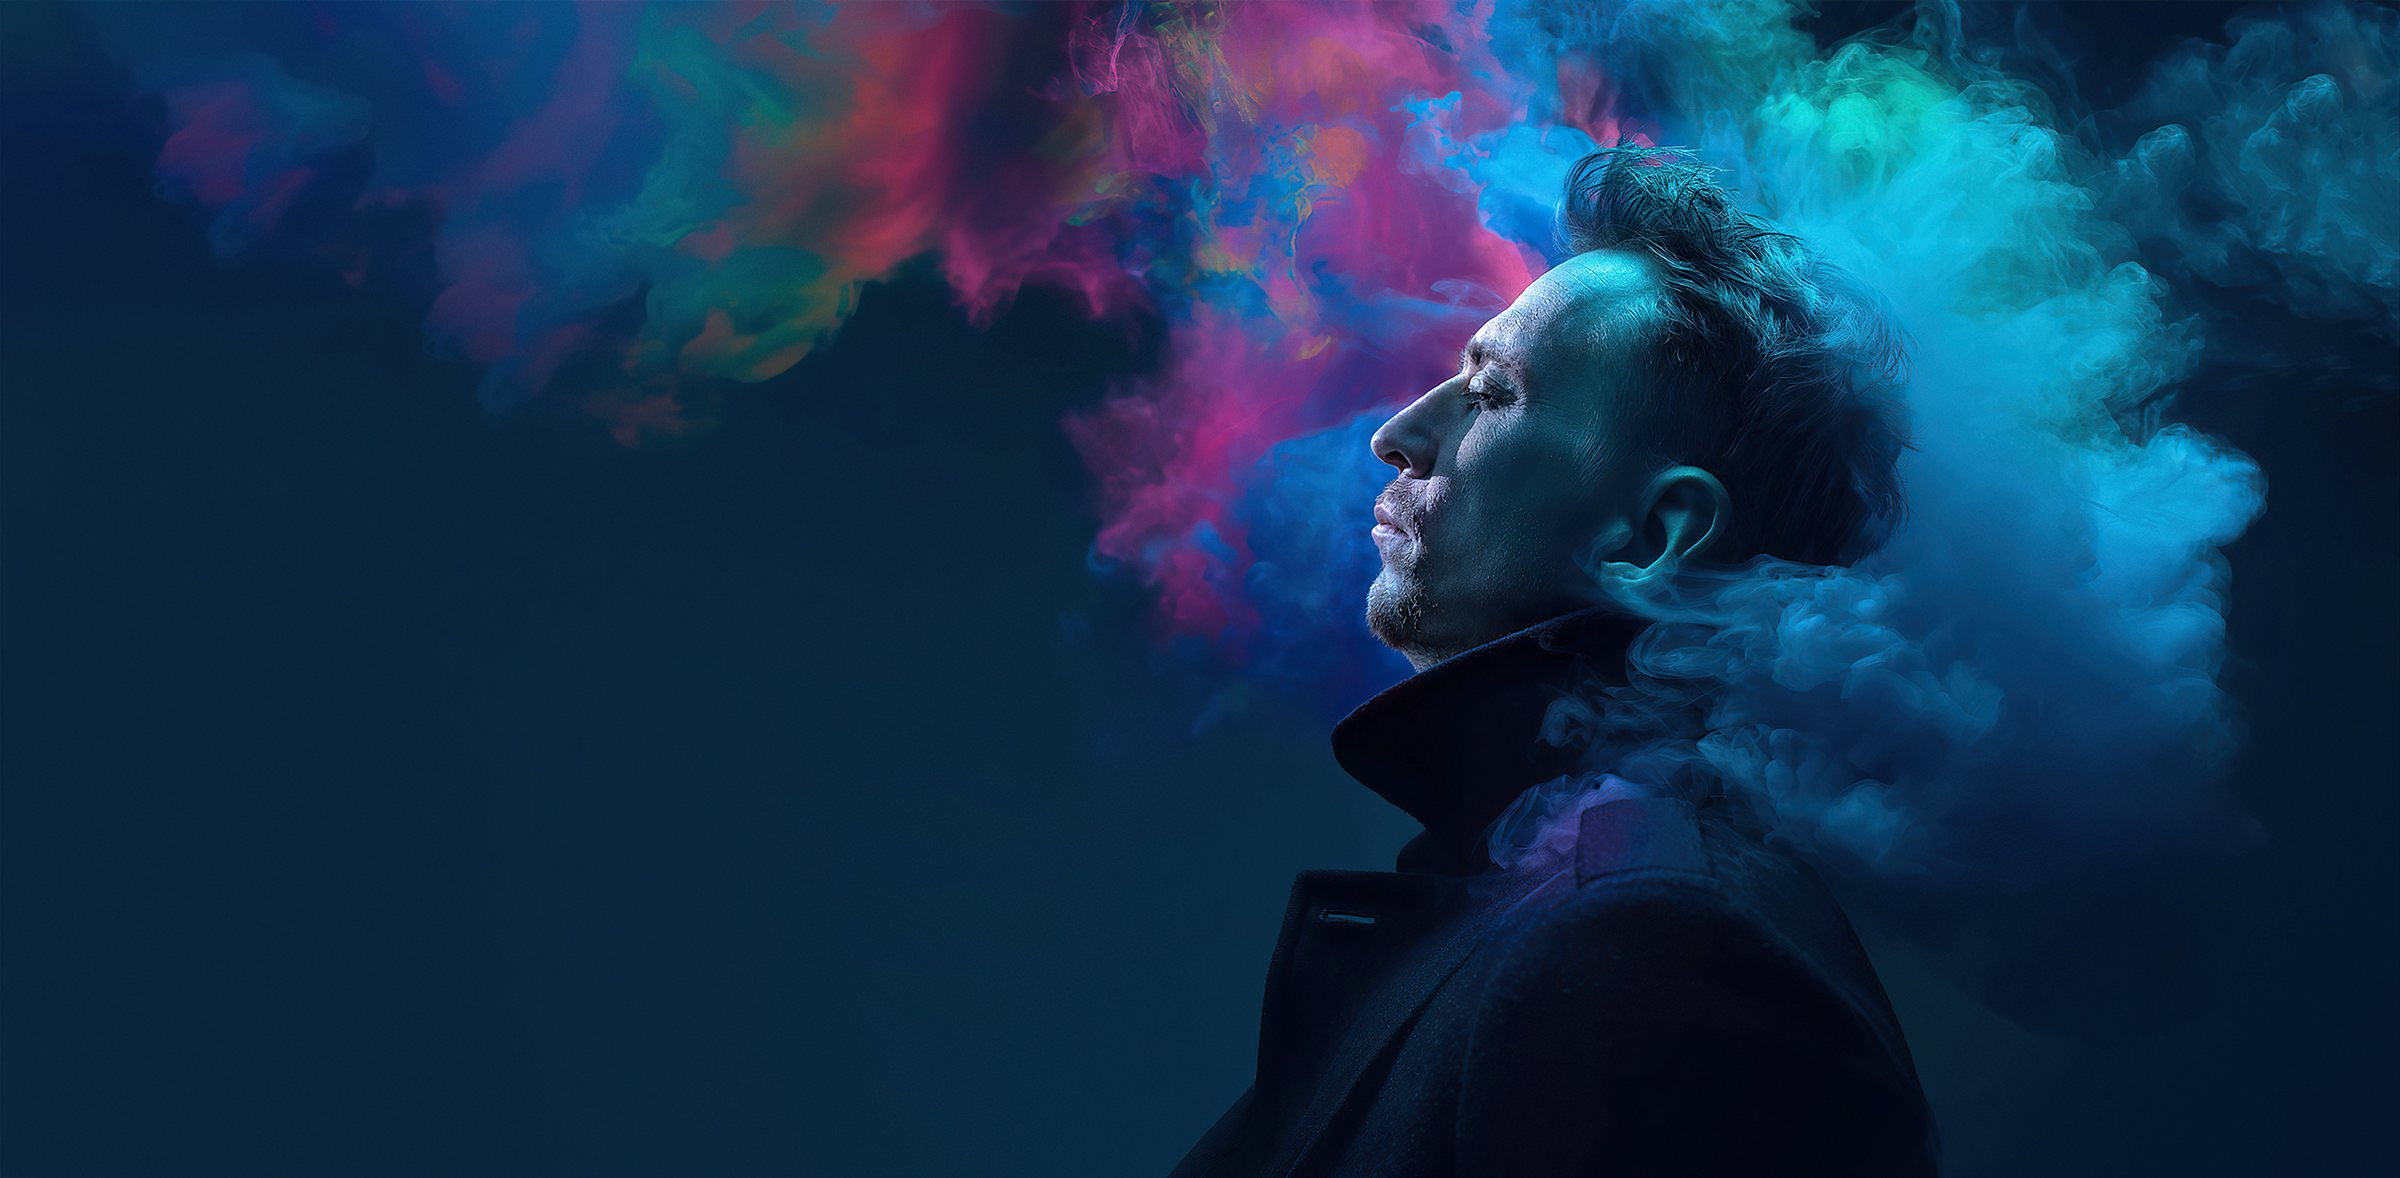
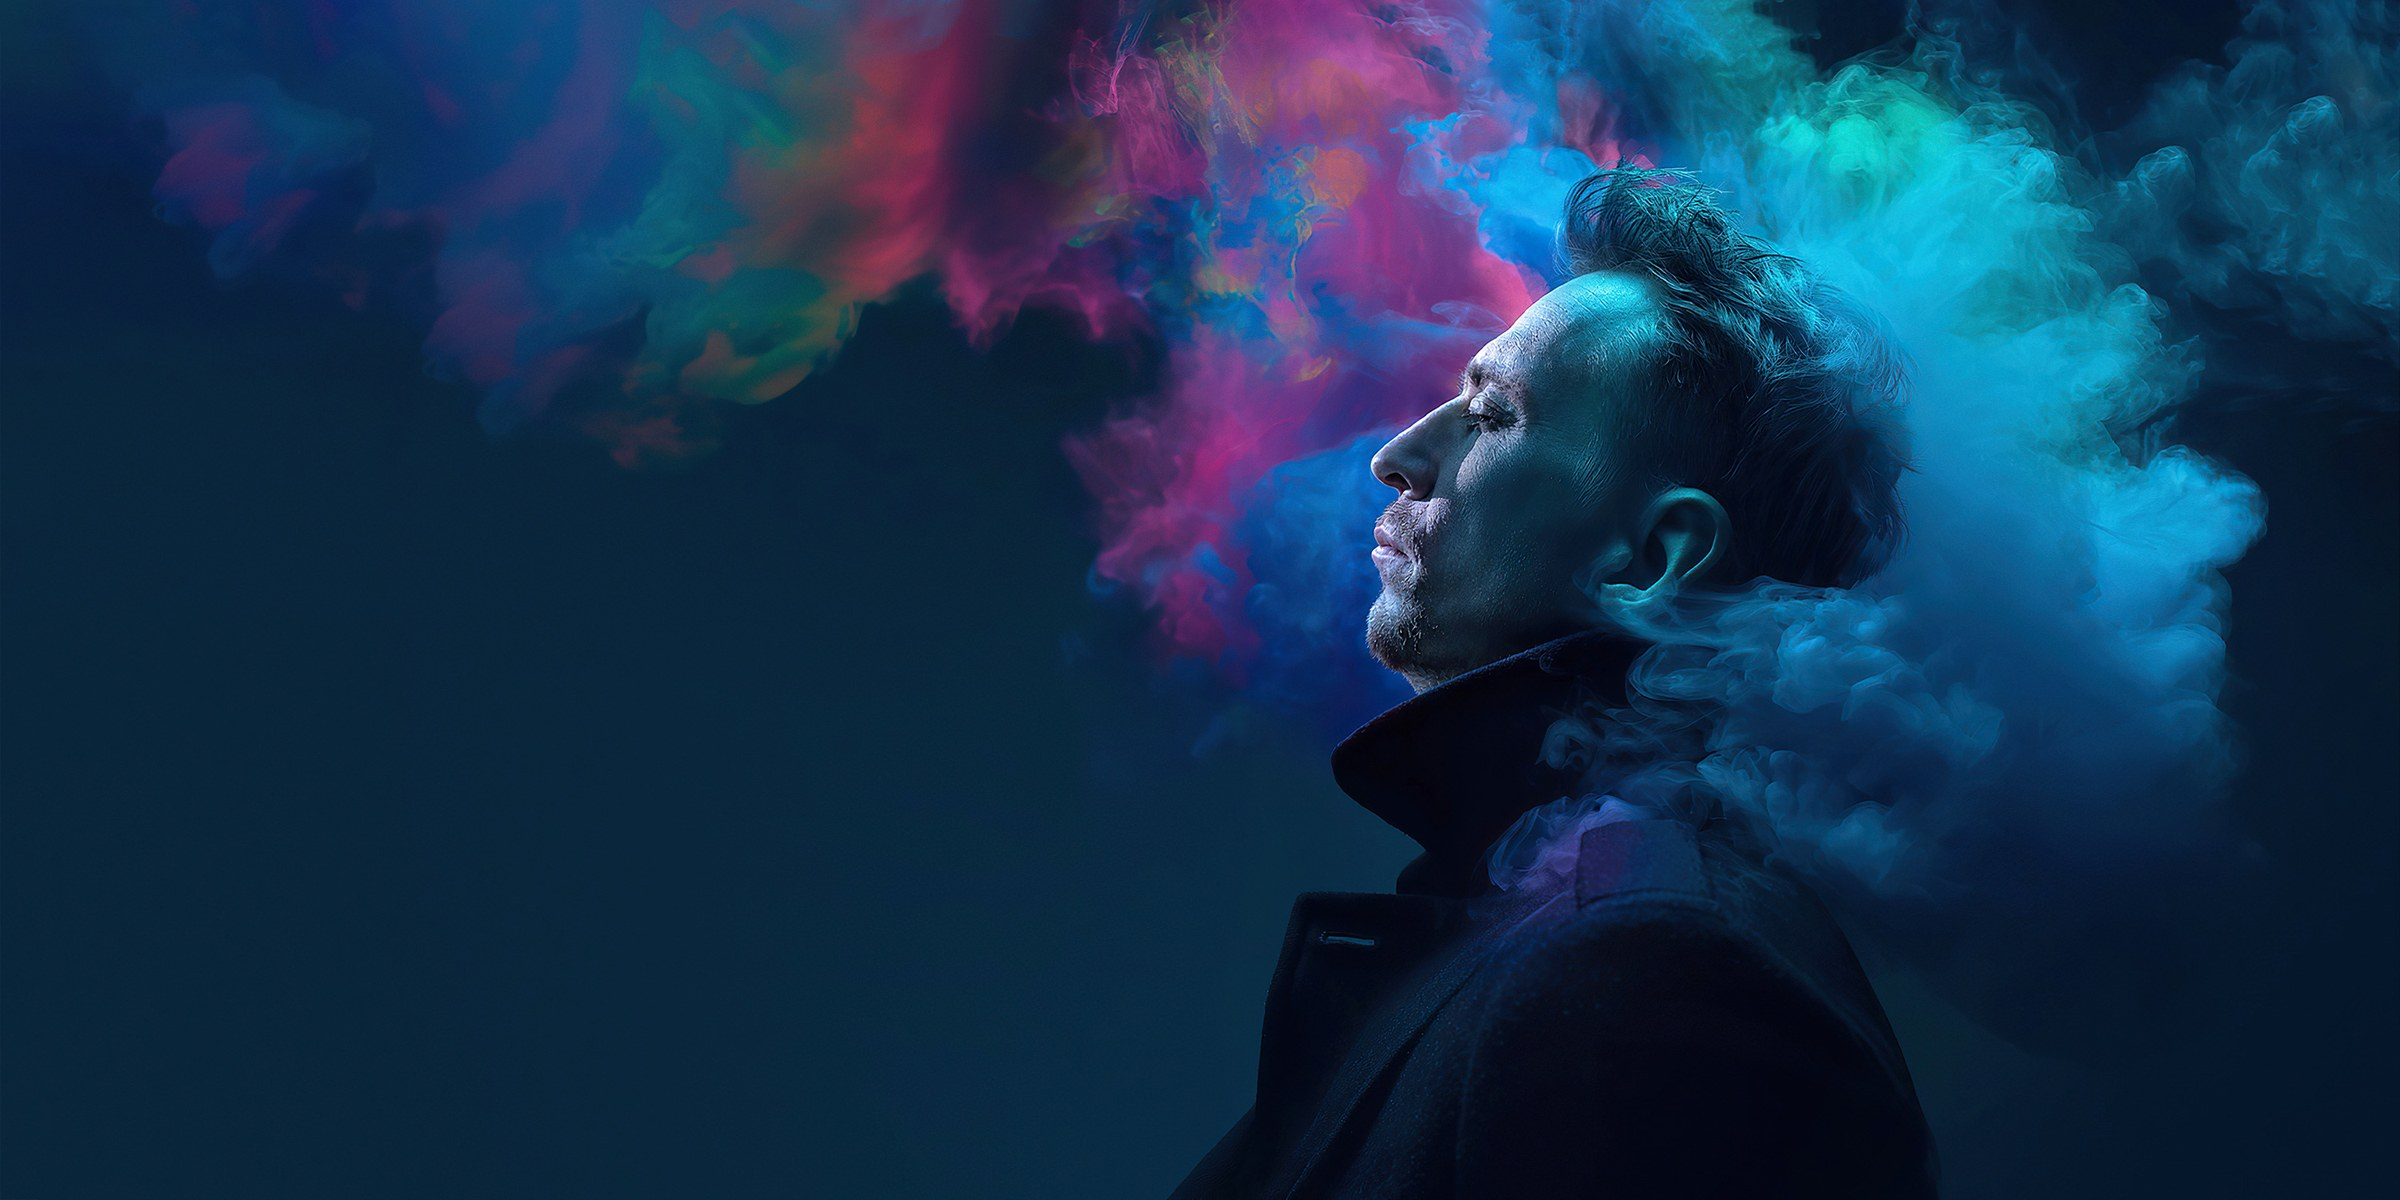
Hero section and flavicon

diff --git a/components/Hero.tsx b/components/Hero.tsx
@@ -73,9 +73,9 @@ export function Hero() {
           className="relative h-[100svh] min-h-[600px] overflow-clip will-change-transform"
           aria-label="Intro"
         >
-          {/* На телефоне кадр во весь экран. Чтобы при этом картинку не
-              раздувало, мобильный файл — вертикальный: сама фотография в нём
-              целиком, а поля сверху и снизу достроены её же размытой копией. */}
+          {/* На телефоне кадр во весь экран. Мобильный файл — прямая
+              вертикальная вырезка из той же фотографии во всю её высоту:
+              снимок встаёт по вертикали целиком, подрезаются только бока. */}
           <motion.div
             className="absolute inset-0 z-0 lg:bottom-auto lg:aspect-[1.79965]"
             initial={{ opacity: 0, scale: 1.6, y: 50 }}
